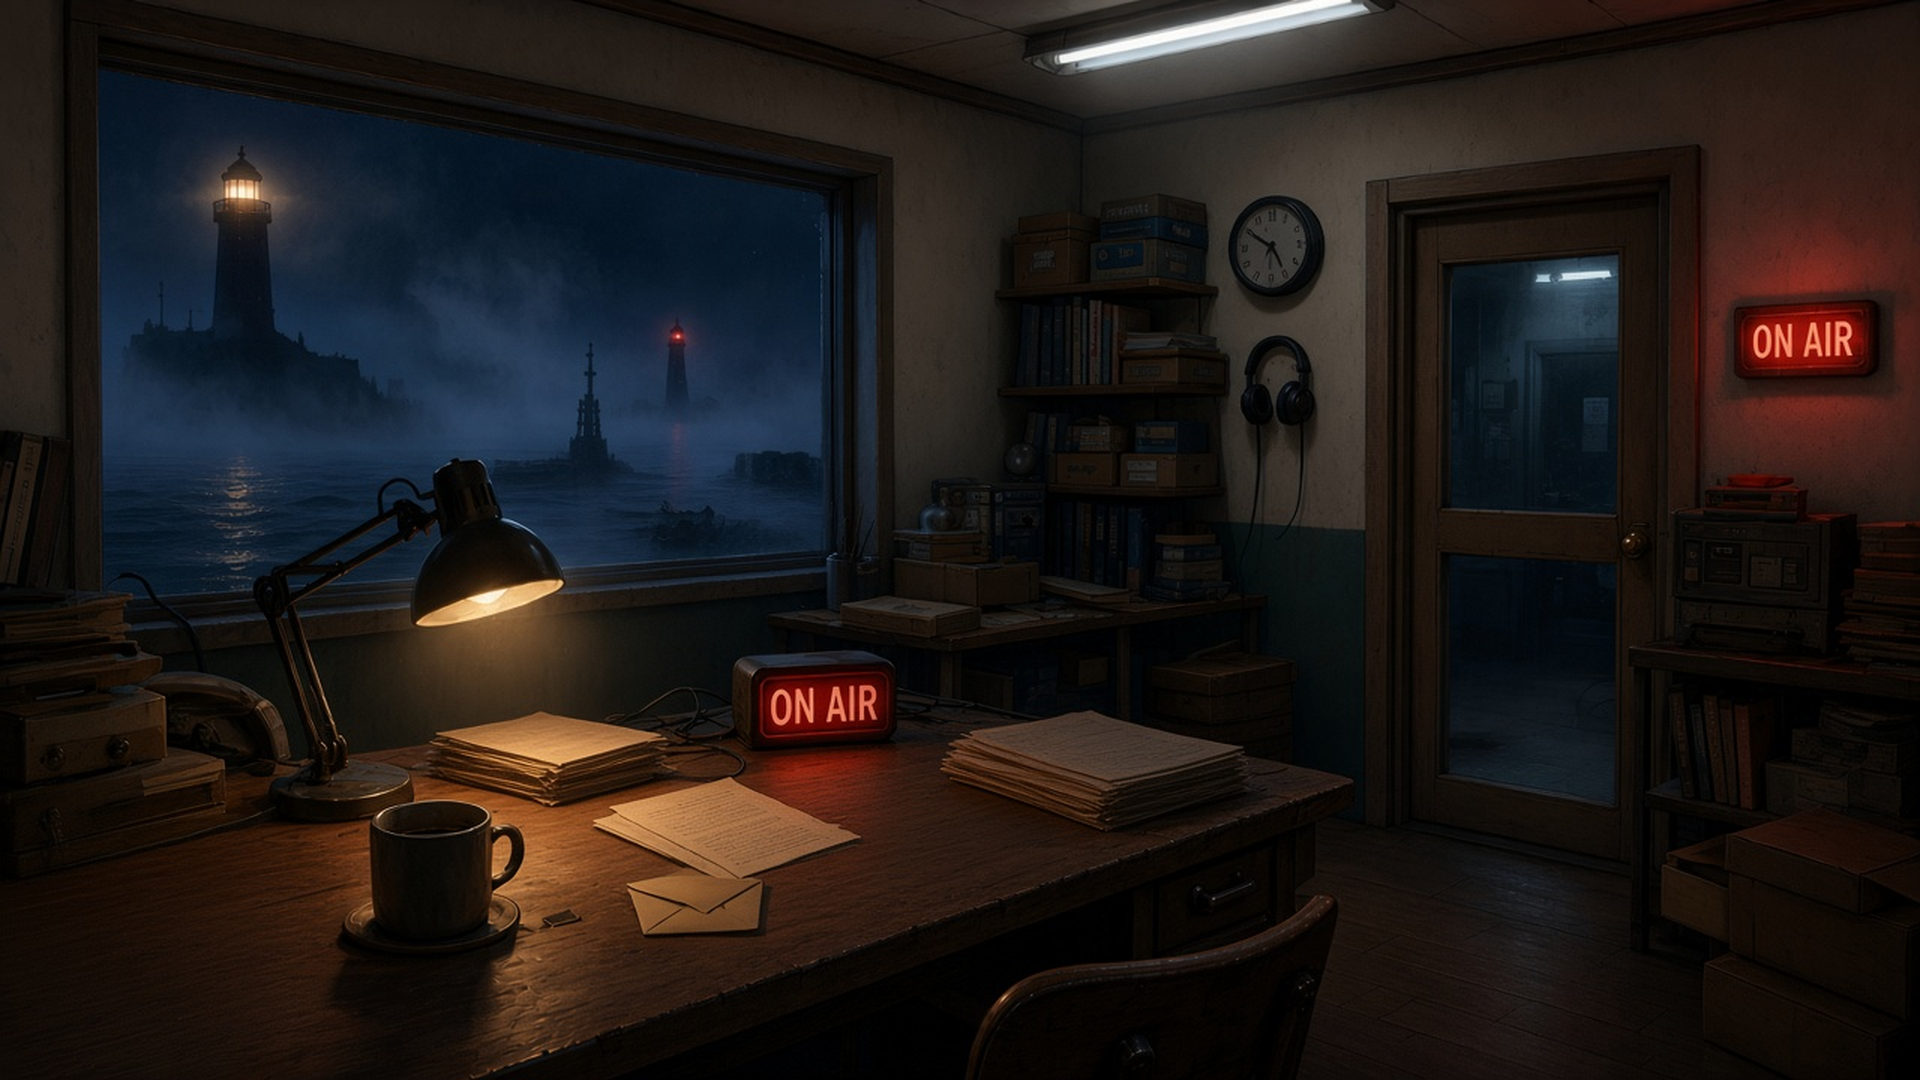
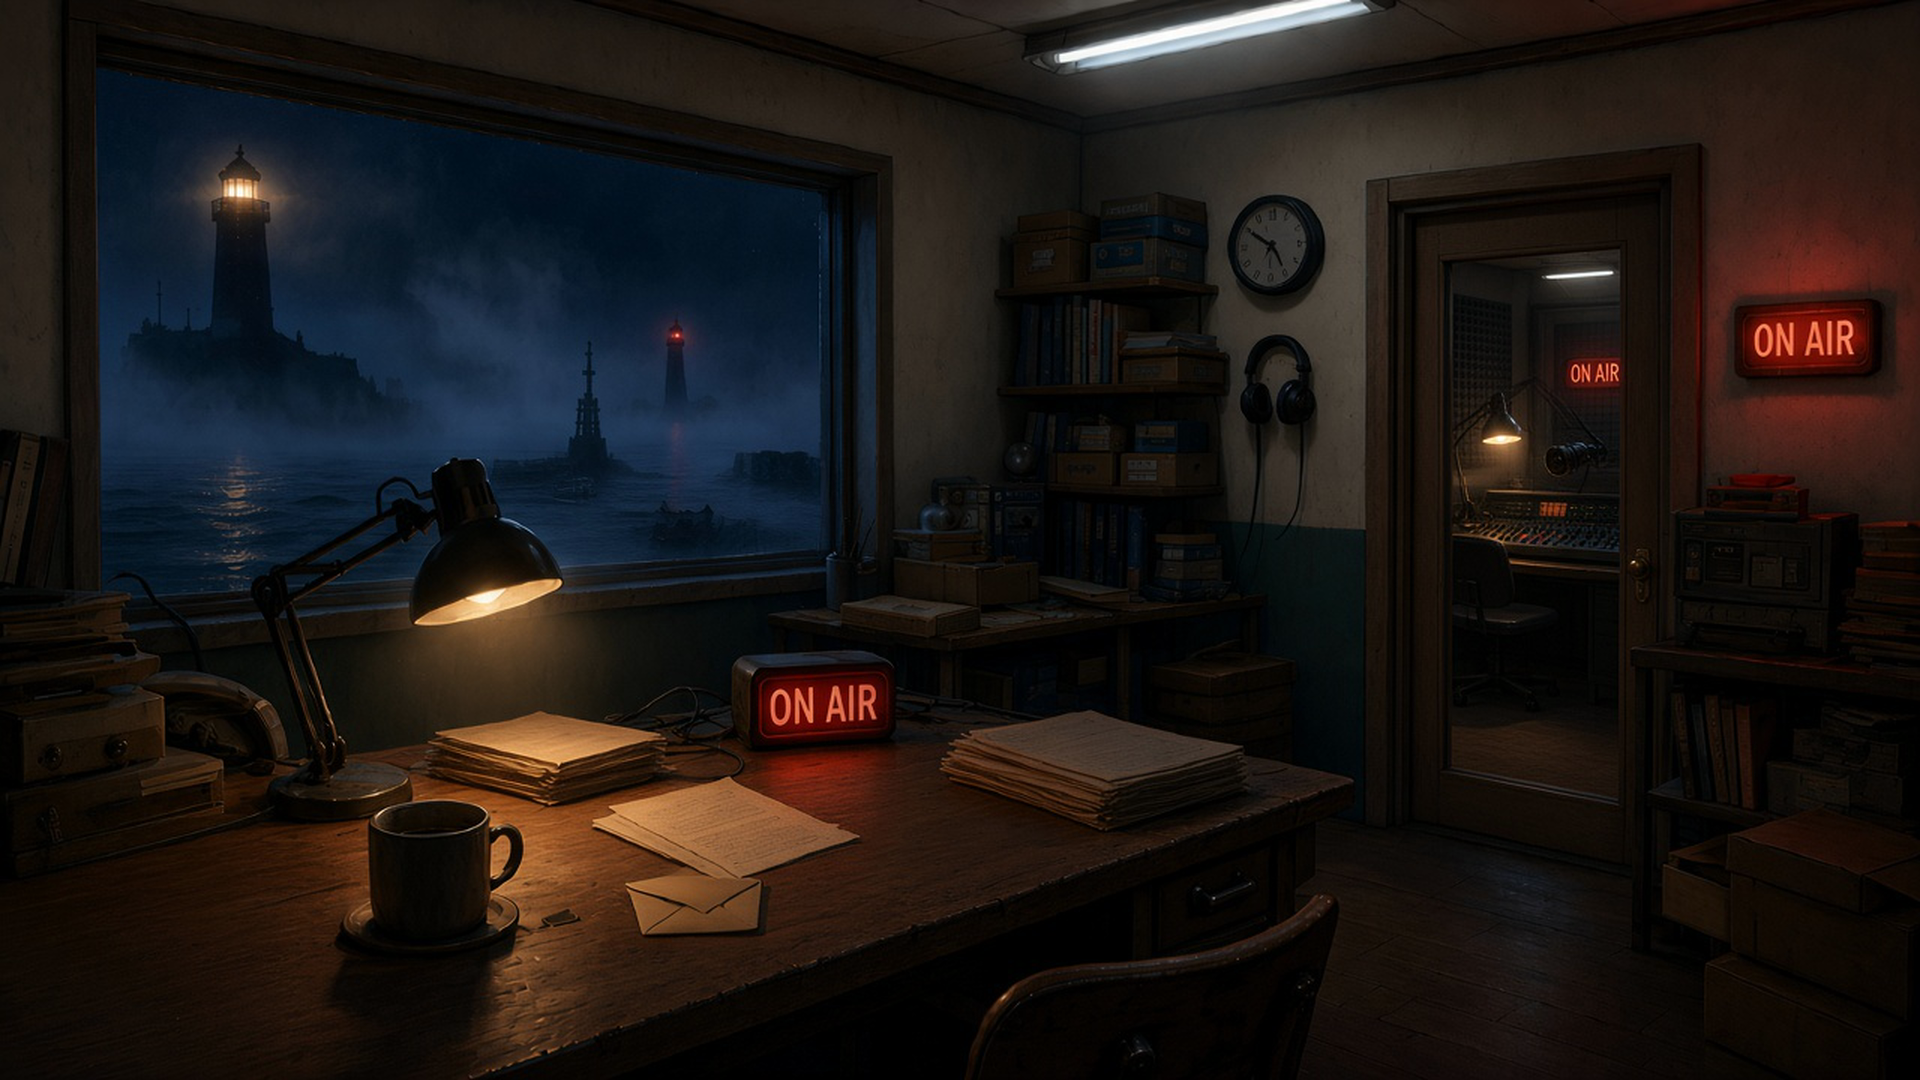
feat(haemu-radio): spatial exit arrows + booth-through-door art
Replace labeled room-nav buttons with edge exit arrows (작가방 etc.).
Keep door-only booth entry and need.desk soft-lock. Update control.png
so the door glass reads as a recording booth, not a hallway.

diff --git a/src/themes/haemu-radio/Flow.tsx b/src/themes/haemu-radio/Flow.tsx
@@ -390,29 +390,131 @@ export function RadioFlow({
         </div>
       </div>
     )}
-    {/* Above .radio-hits-layer (26): booth cart / other scene hits must not steal room nav taps. */}
+    {/* Above .radio-hits-layer (26): edge exits must not sit under scene hits. */}
     <div className="radio-nav-layer" data-scene={scene} data-next={next}>
       <p className="radio-room">
         {ROOM[scene] ?? scene} · {next}
       </p>
-      <div className="radio-row">
-        {scene !== 'control' && <Prop nav onClick={() => go('control')}>부조정실</Prop>}
-        {scene !== 'desk' && <Prop nav onClick={() => go('desk')}>작가석</Prop>}
-        {solved.P5 && scene !== 'archive' && <Prop nav onClick={() => go('archive')}>아카이브실</Prop>}
-        {solved.P4 && !solved.P5 && <Prop nav icon="door" onClick={() => setMode('lock')}>아카이브 문</Prop>}
-        {solved.P7 && scene !== 'roof' && <Prop nav onClick={() => go('roof')}>옥상</Prop>}
-      </div>
-      {(showRoofKey || showRoofHint) && (
-        <div className="radio-row">
-          {showRoofKey && (
-            <Prop icon="door" data-use-target={ROOF_LOCK_ID} onClick={() => setMode('keys')}>
-              옥상 문
-            </Prop>
-          )}
-          {showRoofHint && (
-            <Prop icon="door" onClick={() => say(spoken('p7.door'))}>옥상 문</Prop>
-          )}
-        </div>
+      {controlHits && (
+        <button
+          type="button"
+          className="radio-exit"
+          data-dir="left"
+          aria-label="작가방 가기"
+          onClick={() => go('desk')}
+        >
+          <span aria-hidden>‹</span>
+          작가방
+        </button>
+      )}
+      {boothHits && (
+        <button
+          type="button"
+          className="radio-exit"
+          data-dir="left"
+          aria-label="부조정실 가기"
+          onClick={() => go('control')}
+        >
+          <span aria-hidden>‹</span>
+          부조정실
+        </button>
+      )}
+      {boothHits && solved.P4 && !solved.P5 && (
+        <button
+          type="button"
+          className="radio-exit"
+          data-dir="right"
+          aria-label="아카이브 문"
+          onClick={() => setMode('lock')}
+        >
+          아카이브 문
+          <span aria-hidden>›</span>
+        </button>
+      )}
+      {boothHits && solved.P5 && (
+        <button
+          type="button"
+          className="radio-exit"
+          data-dir="right"
+          aria-label="아카이브실 가기"
+          onClick={() => go('archive')}
+        >
+          아카이브
+          <span aria-hidden>›</span>
+        </button>
+      )}
+      {deskHits && (
+        <button
+          type="button"
+          className="radio-exit"
+          data-dir="right"
+          aria-label="부조정실 가기"
+          onClick={() => go('control')}
+        >
+          부조정실
+          <span aria-hidden>›</span>
+        </button>
+      )}
+      {archiveHits && (
+        <button
+          type="button"
+          className="radio-exit"
+          data-dir="left"
+          aria-label="부스 가기"
+          onClick={() => go('booth')}
+        >
+          <span aria-hidden>‹</span>
+          부스
+        </button>
+      )}
+      {roofHits && (
+        <button
+          type="button"
+          className="radio-exit"
+          data-dir="back"
+          aria-label="부조정실 가기"
+          onClick={() => go('control')}
+        >
+          <span aria-hidden>∨</span>
+          부조정실
+        </button>
+      )}
+      {controlHits && solved.P7 && (
+        <button
+          type="button"
+          className="radio-exit"
+          data-dir="up"
+          aria-label="옥상 가기"
+          onClick={() => go('roof')}
+        >
+          <span aria-hidden>∧</span>
+          옥상
+        </button>
+      )}
+      {showRoofKey && (
+        <button
+          type="button"
+          className="radio-exit"
+          data-dir="up"
+          data-use-target={ROOF_LOCK_ID}
+          aria-label="옥상 문"
+          onClick={() => setMode('keys')}
+        >
+          <span aria-hidden>∧</span>
+          옥상 문
+        </button>
+      )}
+      {showRoofHint && (
+        <button
+          type="button"
+          className="radio-exit"
+          data-dir="up"
+          aria-label="옥상 문"
+          onClick={() => say(spoken('p7.door'))}
+        >
+          <span aria-hidden>∧</span>
+          옥상 문
+        </button>
       )}
     </div>
     <div

diff --git a/src/app/globals.css b/src/app/globals.css
@@ -161,8 +161,8 @@ button {
   pointer-events: none;
   /* Never scroll the stage — sheets scroll inside .radio-popup-scroll. */
   overflow: hidden;
-  /* Clear .radio-nav-layer (room label + one nav row) now that nav is a sibling. */
-  padding-top: 5.25rem;
+  /* Clear room label only — exits sit on scene edges. */
+  padding-top: 3.25rem;
 }
 
 .radio-flow > * {
@@ -372,17 +372,11 @@ button {
     0 6px 14px rgba(18, 25, 31, 0.28);
 }
 
-/* Room nav above scene hits (26) so cart/door targets cannot cover 작가석 etc. */
+/* Room label + edge exits above scene hits (26). */
 .radio-nav-layer {
   position: absolute;
   z-index: 28;
-  left: 64px;
-  right: 108px;
-  top: 64px;
-  display: flex;
-  flex-direction: column;
-  align-items: flex-start;
-  gap: 0.45rem;
+  inset: 0;
   pointer-events: none;
   color: #f2efe8;
   text-shadow: 0 1px 2px #000;
@@ -392,14 +386,77 @@ button {
   pointer-events: auto;
 }
 
-/* Extra roof-door row under the main nav (idle only — open popup owns its padding). */
-.radio-nav-layer:has(> .radio-row:nth-child(3)) + .radio-flow:not([data-open='yes']) {
-  padding-top: 8rem;
+.radio-nav-layer .radio-room {
+  position: absolute;
+  left: 64px;
+  top: 64px;
+}
+
+/* Spatial exit arrows — edge-anchored, not labeled room chrome. */
+.radio-exit {
+  position: absolute;
+  z-index: 1;
+  display: inline-flex;
+  align-items: center;
+  gap: 0.35rem;
+  min-width: 44px;
+  min-height: 44px;
+  padding: 0.4rem 0.65rem;
+  border: 1px solid #6a7378;
+  border-radius: 4px;
+  color: #f0ebe3;
+  background:
+    radial-gradient(circle at 40% 28%, rgba(255, 255, 255, 0.1), transparent 55%),
+    linear-gradient(180deg, #4a555c 0%, #2a333a 48%, #151c22 100%);
+  box-shadow:
+    inset 0 1px 0 rgba(220, 230, 235, 0.25),
+    inset 0 -3px 0 rgba(0, 0, 0, 0.5),
+    0 2px 4px rgba(0, 0, 0, 0.35);
+  text-shadow: 0 1px 0 rgba(0, 0, 0, 0.65);
+  cursor: pointer;
+  -webkit-tap-highlight-color: transparent;
+}
+
+.radio-exit > span {
+  font-size: 1.15rem;
+  line-height: 1;
+  opacity: 0.9;
+}
+
+.radio-exit[data-dir='left'] {
+  left: max(12px, env(safe-area-inset-left, 0px));
+  top: 44%;
+}
+
+.radio-exit[data-dir='right'] {
+  right: max(12px, calc(env(safe-area-inset-right, 0px) + 72px));
+  top: 44%;
+}
+
+.radio-exit[data-dir='up'] {
+  left: 50%;
+  top: max(56px, calc(env(safe-area-inset-top, 0px) + 52px));
+  transform: translateX(-50%);
+  flex-direction: column;
+  gap: 0.15rem;
+}
+
+.radio-exit[data-dir='back'] {
+  left: 50%;
+  bottom: max(72px, calc(env(safe-area-inset-bottom, 0px) + 64px));
+  transform: translateX(-50%);
+  flex-direction: column-reverse;
+  gap: 0.15rem;
+}
+
+/* Puzzle popup owns the stage — hide edge exits while open. */
+.radio-nav-layer:has(+ .radio-flow[data-open='yes']) .radio-exit {
+  display: none;
 }
 
 .radio-flow button,
 .radio-flow input[type='range'],
-.radio-nav-layer button,
+.radio-nav-layer button:not(.radio-exit),
 .lighthouse-flow button,
 .lighthouse-flow input[type='range'],
 .tailor-flow button,
@@ -585,11 +642,12 @@ html[data-radio-hits='show'] .radio-hit {
   height: 12%;
 }
 
+/* Booth door (glass shows recording booth) — slightly wider for mic/console view. */
 .radio-hit[data-hit='door'] {
-  left: 70%;
-  top: 12%;
-  width: 14%;
-  height: 66%;
+  left: 68%;
+  top: 10%;
+  width: 18%;
+  height: 70%;
 }
 
 /* Booth (rooms/booth.png) */
@@ -658,9 +716,7 @@ html[data-radio-hits='show'] .radio-hit {
 }
 
 .radio-flow .radio-nav,
-.radio-flow .radio-prop,
-.radio-nav-layer .radio-nav,
-.radio-nav-layer .radio-prop {
+.radio-flow .radio-prop {
   display: inline-flex;
   align-items: center;
   gap: 0.4rem;
@@ -668,8 +724,7 @@ html[data-radio-hits='show'] .radio-hit {
   color: #e9e2d2;
 }
 
-.radio-flow .radio-nav,
-.radio-nav-layer .radio-nav {
+.radio-flow .radio-nav {
   border-color: #6a7378;
   border-radius: 4px;
   color: #f0ebe3;
@@ -683,16 +738,13 @@ html[data-radio-hits='show'] .radio-hit {
   text-shadow: 0 1px 0 rgba(0, 0, 0, 0.65);
 }
 
-.radio-flow .radio-prop,
-.radio-nav-layer .radio-prop {
+.radio-flow .radio-prop {
   background: rgba(18, 25, 31, 0.82);
   border-color: #b08d4f;
 }
 
 .radio-flow .radio-nav img,
-.radio-flow .radio-prop img,
-.radio-nav-layer .radio-nav img,
-.radio-nav-layer .radio-prop img {
+.radio-flow .radio-prop img {
   width: 36px;
   height: 36px;
   flex: none;

diff --git a/public/themes/haemu-radio/CREDITS.md b/public/themes/haemu-radio/CREDITS.md
@@ -11,7 +11,7 @@
 
 | 파일 | 내용 | 출처 | 비고 |
 |---|---|---|---|
-| `rooms/control.png` | 부조정실 풀블리드 페인티드 BG (1920×1080) | 원작 일러스트 | R-BG-02. 밤·책상램프·ON AIR·창밖 등대. 정리된 방송실(쓰레기·얼룩 줄임) |
+| `rooms/control.png` | 부조정실 풀블리드 페인티드 BG (1920×1080) | 원작 일러스트 | R-BG-02. 밤·책상램프·ON AIR·창밖 등대. 오른쪽 문 유리 너머 녹음 부스(콘솔·마이크·빈 의자). 정리된 방송실 |
 | `rooms/booth.png` | 부스 풀블리드 페인티드 BG (1920×1080) | 원작 일러스트 | R-BG-03. 콘솔·마이크·탁상 라디오·카트리지 랙·빈 DJ 의자. 정리된 심야 부스 |
 | `rooms/desk.png` | 작가석 풀블리드 페인티드 BG (1920×1080) | 원작 일러스트 | R-BG-05. 원고 보드 4칸·사연함·책상램프·코르크보드 |
 | `rooms/archive.png` | 아카이브실 풀블리드 페인티드 BG (1920×1080) | 원작 일러스트 | R-BG-06. 테이프 선반·데크·무전기·따뜻한 펜던트 램프 |
